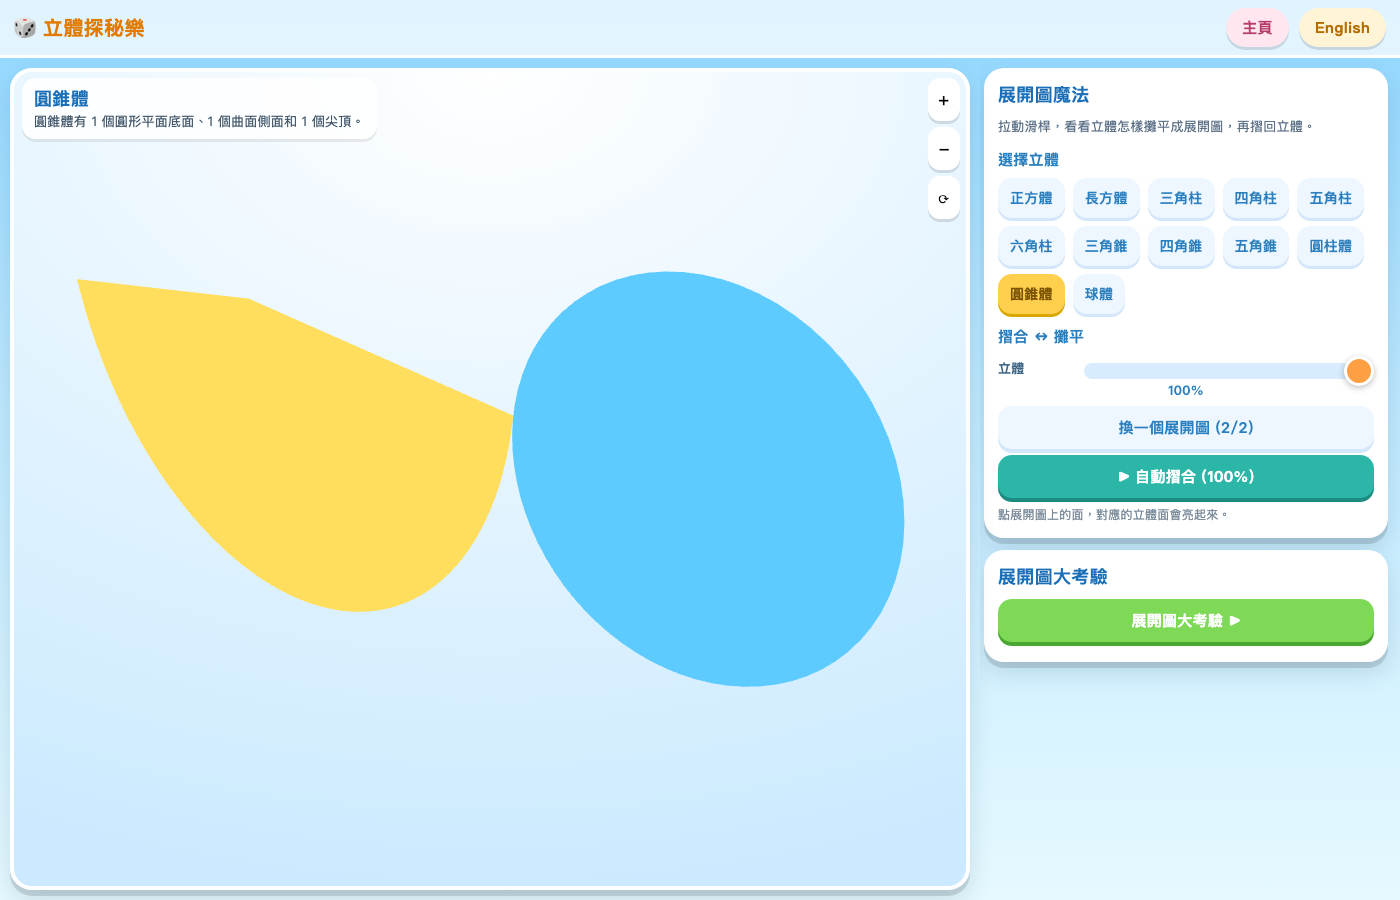
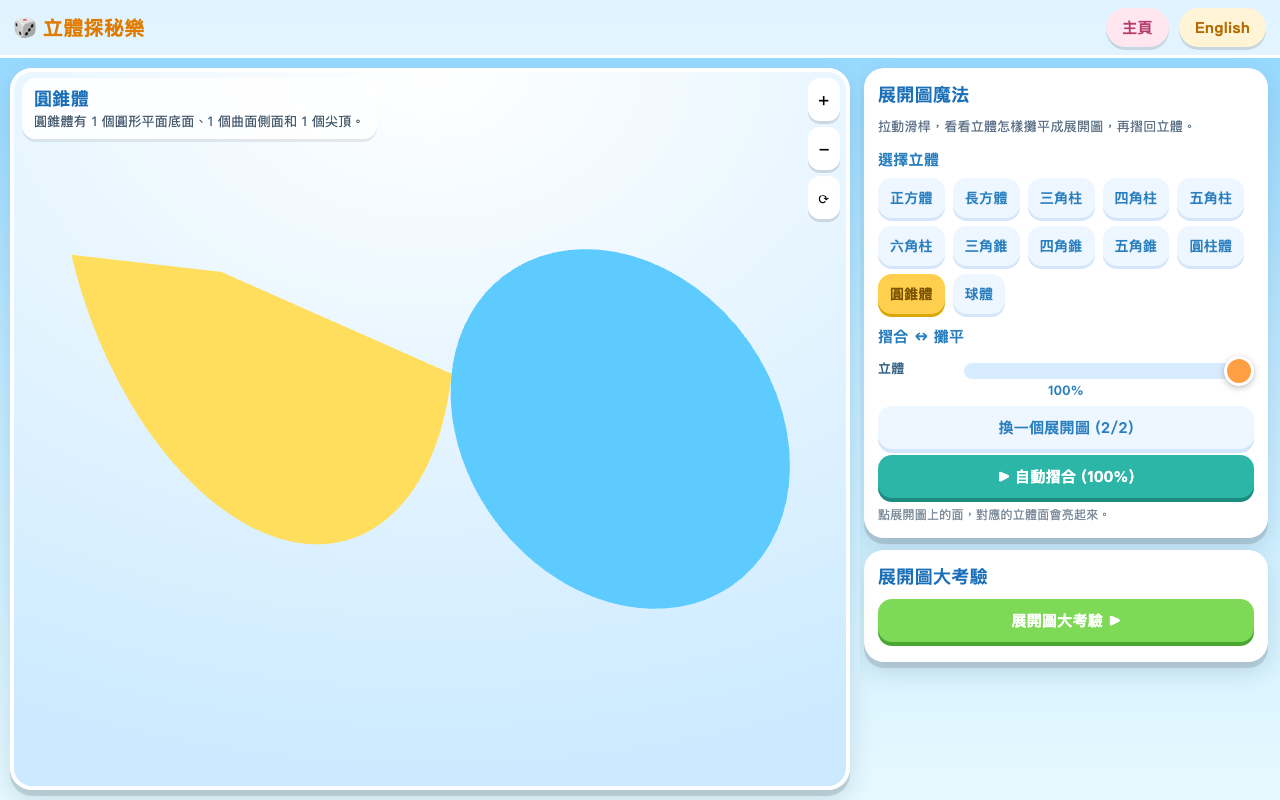
Publish Peek-a-Shape (2026-10-27 17:59 UTC)

diff --git a/tests/smoke.html b/tests/smoke.html
@@ -122,8 +122,47 @@
         if (btn) { btn.click(); if (st.unfold.variant === before) throw new Error('variant did not change'); }
       });
 
-      check('unfold pick group renders', function () {
-        A._test.go('unfold'); st.shape = 'cube'; st.unfold.pickGroup = 0; A._test.render();
+      // 換展開圖時，立體在舞台上的顯示大小必須完全不變（同一立體共用鏡頭距離）
+      check('unfold switching net keeps solid size', function () {
+        A._test.go('unfold'); st.shape = 'cube'; st.unfold.variant = 0; st.unfold.t = 1; A._test.render();
+        var vw = A._test.getViewer();
+        function solidBox() {
+          vw.renderer.render(vw.scene, vw.camera);
+          var tmp = new THREE.Vector3(), mnx = 9, mxx = -9, mny = 9, mxy = -9;
+          vw._content.children.forEach(function (m) {
+            if (!m.geometry || !m.geometry.attributes.position) return;
+            var pos = m.geometry.attributes.position;
+            m.updateMatrixWorld(true);
+            for (var i = 0; i < pos.count; i++) {
+              tmp.fromBufferAttribute(pos, i).applyMatrix4(m.matrixWorld).project(vw.camera);
+              if (tmp.x < mnx) mnx = tmp.x; if (tmp.x > mxx) mxx = tmp.x;
+              if (tmp.y < mny) mny = tmp.y; if (tmp.y > mxy) mxy = tmp.y;
+            }
+          });
+          return { w: mxx - mnx, h: mxy - mny };
+        }
+        var r0 = vw.radius, b0 = solidBox();
+        var seen = [];
+        for (var v = 1; v < PS.nets.variants('cube'); v++) {
+          st.unfold.variant = v; A._test.render();
+          if (Math.abs(vw.radius - r0) > 1e-6) throw new Error('camera moved at v' + v + ': ' + vw.radius.toFixed(4) + ' vs ' + r0.toFixed(4));
+          var b = solidBox();
+          if (Math.abs(b.w - b0.w) > 2e-3 || Math.abs(b.h - b0.h) > 2e-3) {
+            throw new Error('solid size changed at v' + v + ': ' + b.w.toFixed(3) + 'x' + b.h.toFixed(3) + ' vs ' + b0.w.toFixed(3) + 'x' + b0.h.toFixed(3));
+          }
+          seen.push(b.w.toFixed(3));
+        }
+        if (seen.length !== PS.nets.variants('cube') - 1) throw new Error('not all variants checked');
+        // 攤平後每個展開圖仍要完整入鏡
+        for (var v2 = 0; v2 < PS.nets.variants('cube'); v2++) {
+          st.unfold.variant = v2; st.unfold.t = 0; A._test.render();
+          var f = solidBox();
+          if (f.w > 1.66 || f.h > 1.66) throw new Error('net overflows at v' + v2 + ': ' + f.w.toFixed(2) + 'x' + f.h.toFixed(2));
+        }
+        st.unfold.variant = 0; st.unfold.t = 1; A._test.render();
+      });
+
+      check('unfold pick group renders', function () {        A._test.go('unfold'); st.shape = 'cube'; st.unfold.pickGroup = 0; A._test.render();
         st.unfold.pickGroup = -1; A._test.render();
       });
 

diff --git a/js/viewer.js b/js/viewer.js
@@ -576,12 +576,13 @@
     this._content.position.set(-b.c[0] + off[0], -b.c[1] + off[1], -b.c[2]);
   };
 
-  /* 依展開圖（0% 攤平狀態）的大小與目前鏡頭角度，調整相機距離使之完整入鏡 */
-  Viewer.prototype.frameNet = function (net, margin) {
+  /* 依展開圖（0% 攤平狀態）的大小與目前鏡頭角度，算出「剛好完整入鏡」的相機距離。
+     只量度、不改動目前鏡頭狀態。 */
+  Viewer.prototype._fitRadius = function (net, margin) {
     margin = margin || 0.82;
-    if (!net || !net.cells || !net.cells.length) return;
+    if (!net || !net.cells || !net.cells.length) return null;
     this.resize();
-    if (!this._w || !this._h) return;
+    if (!this._w || !this._h) return null;
 
     var pts = [];
     net.cells.forEach(function (cell) {
@@ -589,7 +590,7 @@
         pts.push(net.warp(cell.id, 0, [p[0], p[1], 0]));
       });
     });
-    if (!pts.length) return;
+    if (!pts.length) return null;
 
     var mn = [1e9, 1e9, 1e9], mx = [-1e9, -1e9, -1e9];
     pts.forEach(function (p) {
@@ -609,7 +610,8 @@
       return Math.max((mxx - mnx) / 2, (mxy - mny) / 2);
     }
 
-    var r = Math.max(2.6, Math.min(30, this.radius));
+    var saved = this.radius;
+    var r = Math.max(2.6, Math.min(30, saved));
     for (var round = 0; round < 3; round++) {
       this.radius = r;
       this._applyCamera();
@@ -622,9 +624,32 @@
         r = Math.max(2.6, Math.min(30, r * (m / margin)));
       }
     }
+    this.radius = saved;
+    this._applyCamera();
+    return r;
+  };
+
+  /* 依展開圖（0% 攤平狀態）的大小與目前鏡頭角度，調整相機距離使之完整入鏡 */
+  Viewer.prototype.frameNet = function (net, margin) {
+    var r = this._fitRadius(net, margin);
+    if (r === null) return;
     this.radius = r;
     this._applyCamera();
     // 鏡頭距離改了，重新置中（目前摺合狀態）
+    this._recenterNet();
+  };
+
+  /* 同一個立體的所有展開圖「共用一個鏡頭距離」：
+     取最闊／最高的那個展開圖所需的距離，令切換展開圖時立體大小完全不變。 */
+  Viewer.prototype.frameNets = function (nets, margin) {
+    var best = null, self = this;
+    (nets || []).forEach(function (n) {
+      var r = self._fitRadius(n, margin);
+      if (r !== null && (best === null || r > best)) best = r;
+    });
+    if (best === null) return;
+    this.radius = best;
+    this._applyCamera();
     this._recenterNet();
   };
 

diff --git a/js/nets.js b/js/nets.js
@@ -243,6 +243,35 @@
     for (k = m; k > 0; k--) {
       hinges.push({ parent: 'tri' + k, child: 'tri' + (k - 1), p: V[k].slice(), d: [-V[k][0], -V[k][1]], angle: latFold });
     }
+    // 統一擺放方向：底面是固定不動的根，它的平面內角度決定摺好後整個立體的朝向。
+    // 把整張展開圖繞原點轉一個最小角度，令底面的角度與「星形展開圖」一致，
+    // 這樣切換展開圖時立體不會轉向，看上去大小、角度都一樣。
+    var bc = polyCentroid(cells[0].poly);
+    var a0v = Math.atan2(cells[0].poly[0][1] - bc[1], cells[0].poly[0][0] - bc[0]);
+    var step = 2 * Math.PI / n;
+    var spin = Math.PI / 2 - a0v;
+    spin = spin - Math.floor(spin / step) * step;
+    if (spin > 1e-9) {
+      var cs = Math.cos(spin), sn = Math.sin(spin);
+      var rot = function (q) { return [q[0] * cs - q[1] * sn, q[0] * sn + q[1] * cs]; };
+      cells.forEach(function (c) { c.poly = c.poly.map(rot); });
+      hinges.forEach(function (hh) { hh.p = rot(hh.p); hh.d = rot(hh.d); });
+    }
+    // 顏色／面編號也跟「星形展開圖」一致：用摺合後的位置，把每個三角形對回底面哪一條邊，
+    // 這樣換展開圖時，立體每一面的顏色都不會改變。
+    var M = hingeTransforms({ kind: 'hinge', cells: cells, hinges: hinges }, 1);
+    var bc2 = polyCentroid(cells[0].poly);
+    cells.forEach(function (c) {
+      if (c.id === 'base') return;
+      var sx = 0, sy = 0;
+      c.poly.forEach(function (p) {
+        var q = m4apply(M[c.id], [p[0], p[1], 0]);
+        sx += q[0]; sy += q[1];
+      });
+      var ang = Math.atan2(sy / c.poly.length - bc2[1], sx / c.poly.length - bc2[0]);
+      var idx = Math.round((ang - Math.PI / 2 - step / 2) / step);
+      c.group = 1 + (((idx % n) + n) % n);
+    });
     return { kind: 'hinge', cells: cells, hinges: hinges };
   }
 

diff --git a/js/app.js b/js/app.js
@@ -58,7 +58,7 @@
   /* ---------- DOM ---------- */
   var stageEl, panelEl, stageWrapEl, labelEl, hintEl, viewer, homeEl;
   var stageBtns = null;
-  var unfoldFrameKey = null;   // 記錄已置中的「立體＋展開圖變體」，避免每次重繪都重置鏡頭
+  var unfoldFrameKey = null;   // 記錄已置中的「立體」，避免每次重繪都重置鏡頭（同一立體的所有展開圖共用鏡頭距離）
 
   function markActivity() {}
   // 畫面上顯示「展開程度」：0% = 立體（已摺合），100% = 展開圖（已攤平）
@@ -496,10 +496,16 @@
     panelEl.appendChild(unfoldQuizCard());
 
     // 版面（面板寬度）確定後，才把展開圖置中並調整縮放，確保在 3D 主舞台正中
-    var fk = id + '|' + state.unfold.variant;
+    // 鏡頭距離以「同一個立體的所有展開圖」一併計算：切換展開圖時大小不變，只換形狀
+    var fk = id;
     if (unfoldFrameKey !== fk) {
       unfoldFrameKey = fk;
-      viewer.frameNet(net, 0.8);
+      var allNets = [];
+      for (var vi = 0; vi < N.variants(id); vi++) {
+        var vn = N.build(id, vi);
+        if (vn && vn.kind !== 'none' && vn.cells && vn.cells.length) allNets.push(vn);
+      }
+      viewer.frameNets(allNets, 0.8);
     }
   }
 
